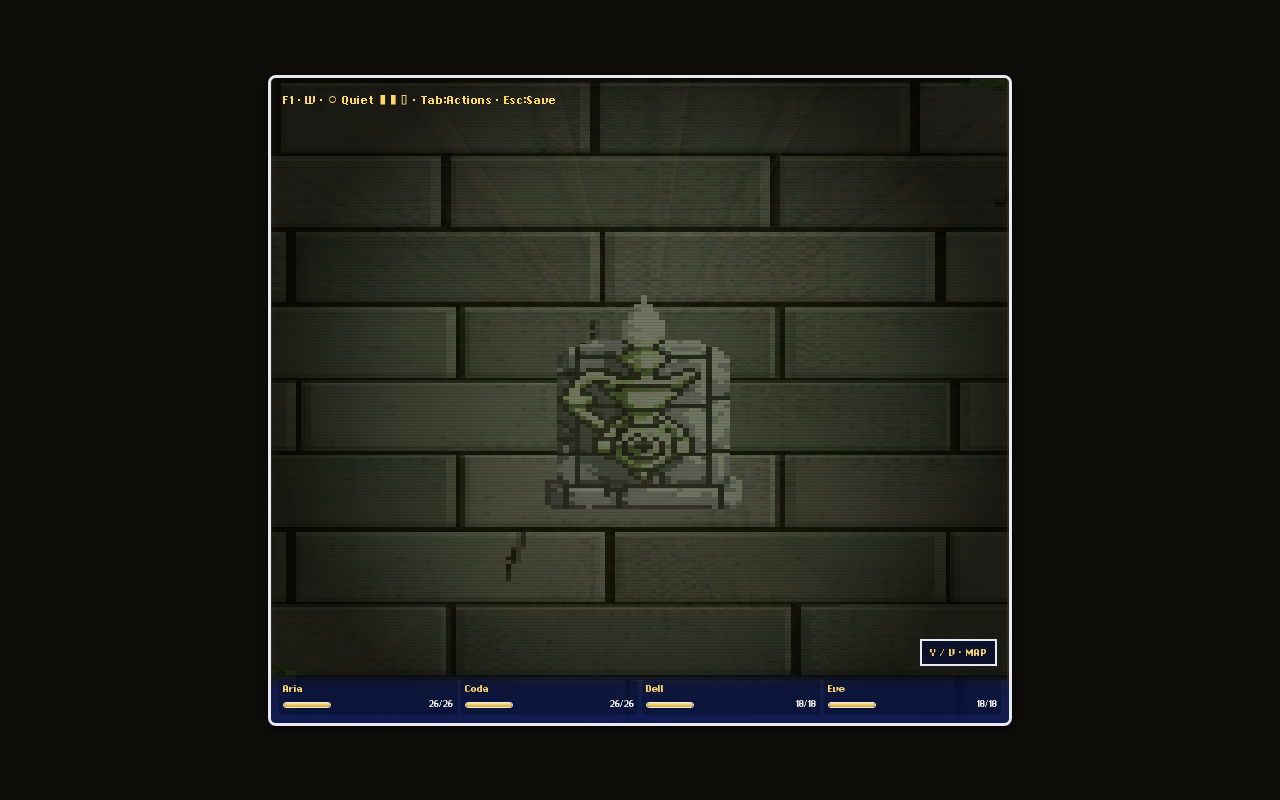
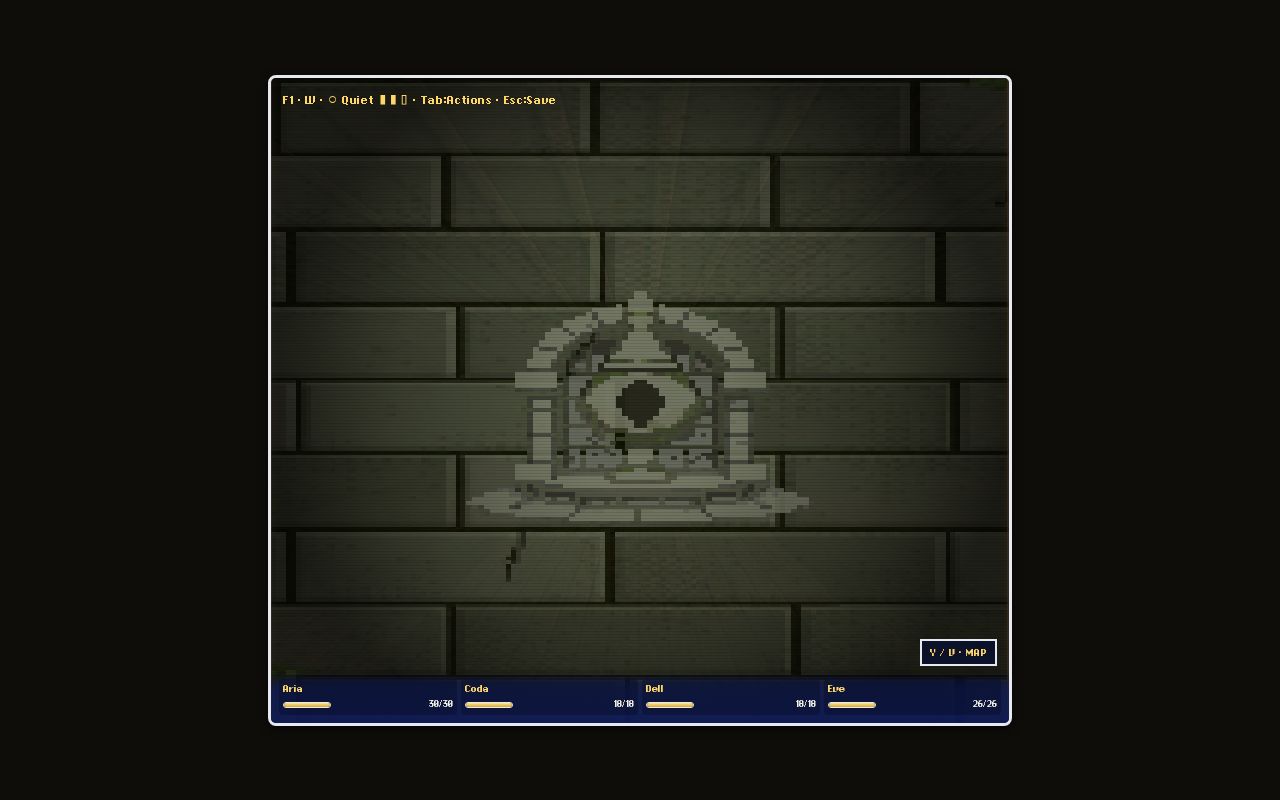
polish: redo cold-hand/upward-water/sweating-iron/lamp-lock, feather stairs seam
Follow-up to the Floor 1 environmental art pass based on in-engine review
feedback (see memory: floor1-wallfeature-quality-bar).

- cold-hand: full niche redo, wrist disappearing into the recess, instead of
  a hand mounted flat on the wall (widthFrac/heightFrac bumped for the arch)
- upward-water: three discrete rising droplets over a basin, replacing a
  luminous blob that read as "magic thing" rather than water (anchor
  top->bottom so the basin sits near the floor)
- sweating-iron: distressed the surrounding masonry into the plate's edge
  without losing the metal-plate identity (two rejected overcorrections kept
  for the record in art/pixellab-candidates/)
- lamp-lock: added a legible keyhole aperture while preserving the
  domed-lamp silhouette and multi-metal rim from the original
- stairs.png: alpha-feathered the bottom ~10% of the panel so the live
  floor-cast shows through at the seam instead of a hard static edge
  (scripts/feather-stairs.mjs, post-process only, no new generation)

ember-scorch intentionally untouched — deferred to a future floor-decal
rendering primitive rather than another wall-mounted compromise.

npm run check green: 1962 tests, all 5 floors valid, exports in sync.

Changed region(s): [[0.375, 0.375, 0.625, 0.6562]]

diff --git a/docs/floor1-art-review/index.html b/docs/floor1-art-review/index.html
@@ -39,6 +39,11 @@
       <code>LoadedTileset.stairs</code> slot (same substitution point as door.png).
       Reads as a real descending stairwell at 1/2/4-tile approach; at distance it
       glows as a strong landmark against the flanking ember-suture (f3) zone.
+      <strong>Polish pass:</strong> the bottom ~10% of the panel is now alpha-feathered
+      (<code>scripts/feather-stairs.mjs</code>) so the live floor-cast shows through at
+      the seam instead of a hard static edge — measurably better at 1-tile range.
+      At 2+ tiles it still reads partly as "a picture in a frame," but that's mostly
+      the pre-existing flanking ivy billboards, not this texture; not fully closed.
       Minor known issue: a faint centerline seam appears only when the camera is
       perfectly axis-aligned — a pre-existing raycaster tie-break, not unique to
       this asset (documented, not fixed this pass).</div>
@@ -53,7 +58,10 @@
       <div class="qa">Visualizes "Five metals meet at a lock shaped like a lamp"
       (11,14). Calibration asset for the wallFeatures system — established
       widthFrac 0.3 / heightFrac 0.4 / anchor center as the baseline reused
-      for the rest of the pass. Reads as wall-embedded, not a floating billboard.</div>
+      for the rest of the pass. Reads as wall-embedded, not a floating billboard.
+      <strong>Polish pass:</strong> regenerated with an explicit keyhole aperture
+      while keeping the domed-lamp silhouette and multi-metal rim — now reads
+      as a legible mechanism, not just an inscrutable relief.</div>
     </div>
   </div>
 
@@ -75,7 +83,11 @@
       <div class="meta">(7,6) e · <span class="tag">wallFeature decal</span></div>
       <div class="qa">"A cold hand closes your wounds" (heal event). Carved stone
       hand reaching from a niche. Eerie, well-matched to the chapel stone,
-      no gore/cartoon-hand failure modes.</div>
+      no gore/cartoon-hand failure modes.
+      <strong>Polish pass:</strong> fully redone as an arched shrine niche with the
+      wrist disappearing into the recess and a small reliquary ledge below — the
+      original read as a hand mounted on the wall (mitten silhouette at gameplay
+      scale); this now reads unmistakably as a hand emerging from the wall.</div>
     </div>
   </div>
 
@@ -87,7 +99,11 @@
       <div class="qa">"Iron sweats. Something below coughs once." Riveted plate
       with glowing ember cracks at the base, bolted into the ember-suture wall.
       Strongest of the six decals — forge infrastructure that genuinely looks
-      like it doesn't belong in a crypt.</div>
+      like it doesn't belong in a crypt.
+      <strong>Polish pass:</strong> distressed the surrounding masonry so it chips
+      into the plate's edge (two earlier attempts overcorrected into losing the
+      metal-plate identity entirely, rejected before landing here) while keeping
+      the four corner rivets and glowing seams unmistakably metal.</div>
     </div>
   </div>
 
@@ -137,10 +153,13 @@
     <div class="body">
       <h2>Upward-Dripping Water</h2>
       <div class="meta">(17,15) w · <span class="tag">wallFeature decal</span> <span class="tag">adapted</span></div>
-      <div class="qa">"Black water drips upward, one bead at a time." Adapted to
-      a single droplet clinging to a wet ceiling-adjacent crack (top-anchored)
-      rather than a true floor-level or animated effect. Rerolled once — the
-      first candidate was too abstract/textural to read as a droplet.</div>
+      <div class="qa">"Black water drips upward, one bead at a time."
+      <strong>Polish pass:</strong> replaced the single luminous cyan blob (read as
+      "magic thing on the wall," not water) with three distinct droplets rising
+      from a small basin — anchor flipped top → bottom so the basin sits near the
+      floor. One rejected attempt in between produced an abstract repeating
+      pattern with texture-heavy prompt wording; the fix was switching to explicit
+      "game icon, discrete droplets" phrasing.</div>
     </div>
   </div>
 

diff --git a/src/data/wall-features.ts b/src/data/wall-features.ts
@@ -48,16 +48,16 @@ export const WALL_FEATURES: readonly WallFeatureSpriteDef[] = [
     id: "cold-hand",
     name: "Cold-Hand Shrine",
     file: "cold-hand.png",
-    widthFrac: 0.28,
-    heightFrac: 0.4,
+    widthFrac: 0.35,
+    heightFrac: 0.55,
     anchor: "center",
   },
   {
     id: "sweating-iron",
     name: "Sweating Iron Plate",
     file: "sweating-iron.png",
-    widthFrac: 0.35,
-    heightFrac: 0.45,
+    widthFrac: 0.4,
+    heightFrac: 0.5,
     anchor: "center",
   },
   {
@@ -73,8 +73,8 @@ export const WALL_FEATURES: readonly WallFeatureSpriteDef[] = [
     name: "Upward-Dripping Water",
     file: "upward-water.png",
     widthFrac: 0.22,
-    heightFrac: 0.35,
-    anchor: "top",
+    heightFrac: 0.45,
+    anchor: "bottom",
   },
 ];
 

diff --git a/art/pixellab/maze-environment-generation-log.md b/art/pixellab/maze-environment-generation-log.md
@@ -128,3 +128,26 @@ a different rendering mode, not built here) — both were adapted to a
 wall-mounted equivalent (a scorched wall-base patch; a droplet clinging to
 a wall crack near the ceiling) rather than left unvisualized. Noted as a
 deliberate scope decision, not an oversight.
+
+## Polish pass (branch `agent/floor1-art-polish`)
+
+Follow-up pass after user review of the shipped gallery (see
+[[floor1-wallfeature-quality-bar]]). Priority order: cold-hand redo →
+upward-water redo → sweating-iron distress → lamp-lock mechanism clarity →
+stairs floor-integration. Ember-scorch deliberately untouched pending a
+floor-decal rendering primitive, per explicit user direction not to spend
+more PixelLab budget on a wall-mounted compromise for a floor-level event.
+
+| Asset | Verdict before | Change | Candidates | Result |
+|---|---|---|---|---|
+| `cold-hand` | B — read as a hand mounted on the wall (mitten/gauntlet silhouette) | Regenerated as a full arched shrine niche, wrist disappearing into the recess, small reliquary ledge below. Geometry bumped `0.28/0.4/center` → `0.35/0.55/center` to give the niche room. | 1 (`f1-coldhand-02.png`, accepted first try) | In-engine, now unambiguously "hand emerging from a niche," not a wall-mounted prop. |
+| `upward-water` | B- — read as a luminous magic shape, not droplets | v3 attempt (texture/pattern wording) produced an abstract repeating crack pattern — rejected outright, worse than the original. v4 switched to explicit "game icon" framing: three discrete round droplets over a small basin, no texture/pattern language. Anchor changed `top` → `bottom` (basin now sits near the floor where a puddle physically would), `heightFrac` 0.35 → 0.45. | 2 (`-03` rejected, `-04` accepted) | In-engine, reads immediately as three separated droplets rising from a basin — the "ascending physics" is now legible at a glance. |
+| `sweating-iron` | B+ — good but too clean/manufactured | v2 (masonry-overlap emphasis) overcorrected: in-engine it read as cracked scorched stone, lost the metal-plate identity entirely — rejected. v3 restored the ember-glow cracks alongside the distressed edge — better, but rivets/plate still under-defined in-engine. v4 explicitly anchored "clearly rectangular... visible metallic grey-black surface... four large prominent rivets at the corners," confining the distress to the plate's outer edge only. Geometry bumped `0.35/0.45` → `0.4/0.5` to show the surrounding masonry chip. | 3 (`-02` rejected, `-03` superseded, `-04` accepted) | In-engine, clear metal plate with corner rivets and glowing seams, chipped stone framing reads as intrusion rather than a hung sign. |
+| `lamp-lock` | A- — strong "what the hell is that" mechanism, but not legible as a *lock* specifically | v2 (circular medallion, diamond aperture) read clearly as a mechanism but lost the lamp-dome silhouette and the multi-metal rim that made v1 distinctive — used only as a stepping stone. v3 explicitly requested "domed oil lamp... five visibly different tarnished metal segments... arched stone frame... dark diamond-shaped keyhole aperture in the center of the dome" — kept the lamp identity and added the unmistakable keyhole. | 2 (`-02` superseded, `-03` accepted) | In-engine, reads as an arched mechanism with a legible keyhole/aperture while keeping the "inscrutable device" character the user liked. |
+| stairs (bottom integration) | A / minor seam at the wall-face boundary | No regeneration — post-processed the existing `stairs.png` in place with `scripts/feather-stairs.mjs` (pngjs): a linear alpha ramp from opaque to fully transparent over the bottom ~10% of rows (26px of 256). Confirmed via `renderer.ts` draw order that `drawFloorCeilingCast` paints the live perspective floor *before* the door/stairs texture is composited over it (`ctx.drawImage` with `source-over`), so transparent source pixels reveal the already-rendered live floor instead of a hard static cutoff. | 0 (asset edit, no new generations) | Bottom edge blends measurably better at 1-tile distance. At 2+ tiles the panel still reads partly as a "picture in a frame" — but that's substantially the pre-existing flanking ivy/vine billboards framing the archway, not the texture's bottom edge; a full fix would mean reworking those billboards or building real floor-decal continuity under the arch. Documented as a partial fix, not closed. |
+
+Total polish-pass PixelLab generations: 7 (1 cold-hand, 2 upward-water, 3
+sweating-iron, 2 lamp-lock — includes rejected candidates, all `1
+generation` cost each per the API's own usage field). Raw candidates for all
+attempts, including the rejected ones, are kept in `art/pixellab-candidates/`
+for the record.

diff --git a/docs/FLOOR1-ENVIRONMENT-ART-OVERNIGHT.md b/docs/FLOOR1-ENVIRONMENT-ART-OVERNIGHT.md
@@ -112,6 +112,23 @@ in-engine before re-validating (`floor:validate`, full test suite,
 `floor:export-check`, build — all green) and committed. Full detail in
 `art/pixellab/maze-environment-generation-log.md`.
 
+## Follow-up: polish pass (branch `agent/floor1-art-polish`)
+
+After user review of the shipped gallery, four of the six wallFeature decals
+were regenerated and the stairs panel's floor seam was post-processed:
+`cold-hand` (mounted hand → emerging-from-niche), `upward-water` (luminous
+blob → three discrete rising droplets), `sweating-iron` (distressed the
+surrounding masonry without losing the metal-plate identity, after two
+rejected overcorrections), `lamp-lock` (added a legible keyhole aperture
+while keeping the domed-lamp silhouette), and `stairs.png` (alpha-feathered
+bottom ~10% so the live floor-cast shows through at the seam). `ember-scorch`
+deliberately untouched — explicit user direction to wait for a floor-decal
+rendering primitive rather than spend more budget on a wall-mounted
+compromise. Full per-asset before/after detail, rejected candidates, and
+reasoning: `art/pixellab/maze-environment-generation-log.md` → "Polish pass"
+section. Quality bar and grades this pass worked against:
+[[floor1-wallfeature-quality-bar]].
+
 ## Not completed / deferred
 
 - **P9 (reliquary gate polish, (11,12) `n`)** — skipped. The gate's edge type
